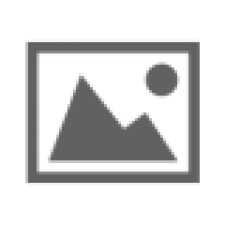
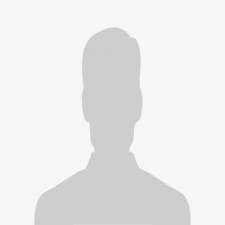
update no-image

diff --git a/application/modules/person/views/detail.php b/application/modules/person/views/detail.php
@@ -173,7 +173,11 @@
 			                  		<div class="grid simple" style="margin-bottom : 0px !important;">
 				                   		<h4>Picture</h4>
 					            	</div>
-                                	<img alt="" src="<?php echo base_url()?>uploads/<?php echo $u_folder.'/225x225/'.$photo?>">
+                                	 <?php if($s_photo && file_exists('./uploads/'.$u_folder.'/'.$s_photo)) {?>
+                                                <img alt="" src="<?php echo base_url()?>uploads/<?php echo $u_folder.'/225x225/'.$s_photo?>">
+                                                <?php }else{ ?>
+                                                <img alt="" src="<?php echo base_url()?>assets/img/no-image-big.png" class="img-responsive">
+                                                <?php } ?>
 			                 	</div>
 			                </div>
 			           

diff --git a/application/views/sidebar.php b/application/views/sidebar.php
@@ -3,7 +3,10 @@
     <!-- BEGIN MINI-PROFILE -->
     <div class="user-info-wrapper"> 
       <div class="profile-wrapper">
-        <img src="<?php echo assets_url('img/profiles/avatar.jpg'); ?>" data-src="<?php echo assets_url('img/profiles/avatar.jpg'); ?>" data-src-retina="<?php echo assets_url('img/profiles/avatar2x.jpg'); ?>" width="69" height="69" />
+        <img src="<?php 
+        echo base_url().'assets/img/no-image.png';
+        
+		?>" data-src="<?php echo assets_url('img/profiles/avatar.jpg'); ?>" data-src-retina="<?php echo assets_url('img/profiles/avatar2x.jpg'); ?>" width="69" height="69" />
       </div>
       <div class="user-info">
         <div class="greeting">Welcome</div>

diff --git a/application/modules/person/controllers/person.php b/application/modules/person/controllers/person.php
@@ -109,7 +109,11 @@ class Person extends MX_Controller {
         $this->data['grade'] = (!empty($user_emp->grade)) ? $user_emp->grade : '-';
         $this->data['resign_reason'] = (!empty($user_emp->resign_reason)) ? $user_emp->resign_reason : '-';
         $this->data['active_inactive'] = (!empty($user_emp->active_inactive)) ? $user_emp->active_inactive : '-';
-
+	
+	$this->data['s_photo'] = $this->form_validation->set_value('photo', $user->photo);
+        $user_folder = $user->id.$user->first_name;
+        $this->data['u_folder'] = $user_folder;
+		
         //Company Sponsor Course Tab
          $this->data['user_course'] = $user_course;
 

diff --git a/application/modules/auth/controllers/auth.php b/application/modules/auth/controllers/auth.php
@@ -728,6 +728,9 @@ class Auth extends MX_Controller {
             // Config for image upload
 
             $user_folder = $user->id.$user->first_name;
+			if(!is_dir('./'.'uploads')){
+            mkdir('./'.'uploads', 0777);
+            }
             if(!is_dir('./uploads/'.$user_folder)){
             mkdir('./uploads/'.$user_folder, 0777);
             }
